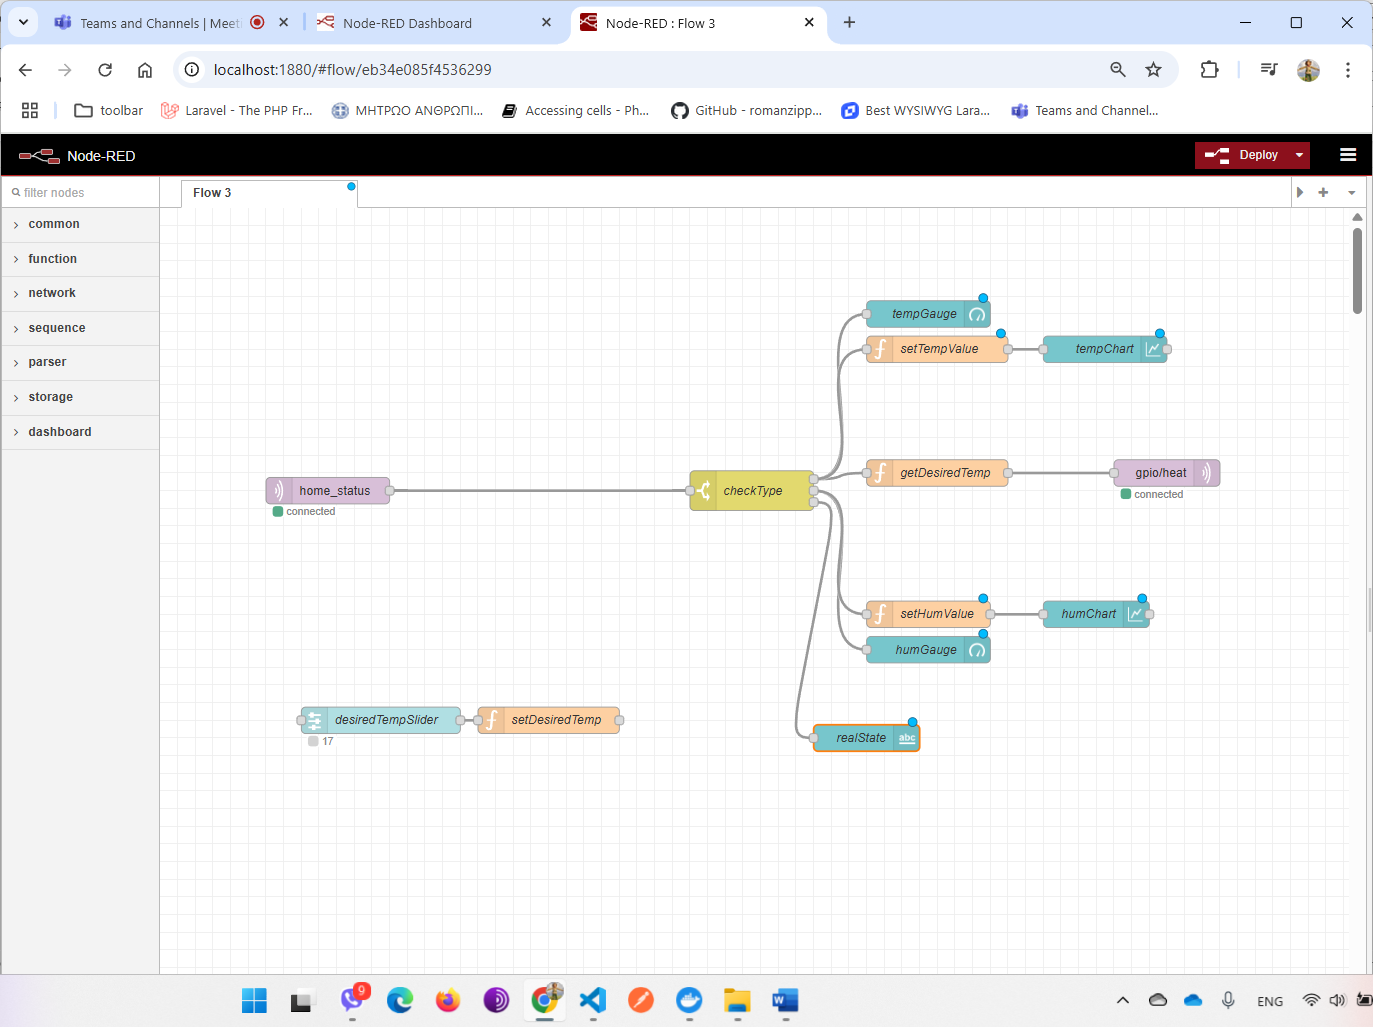
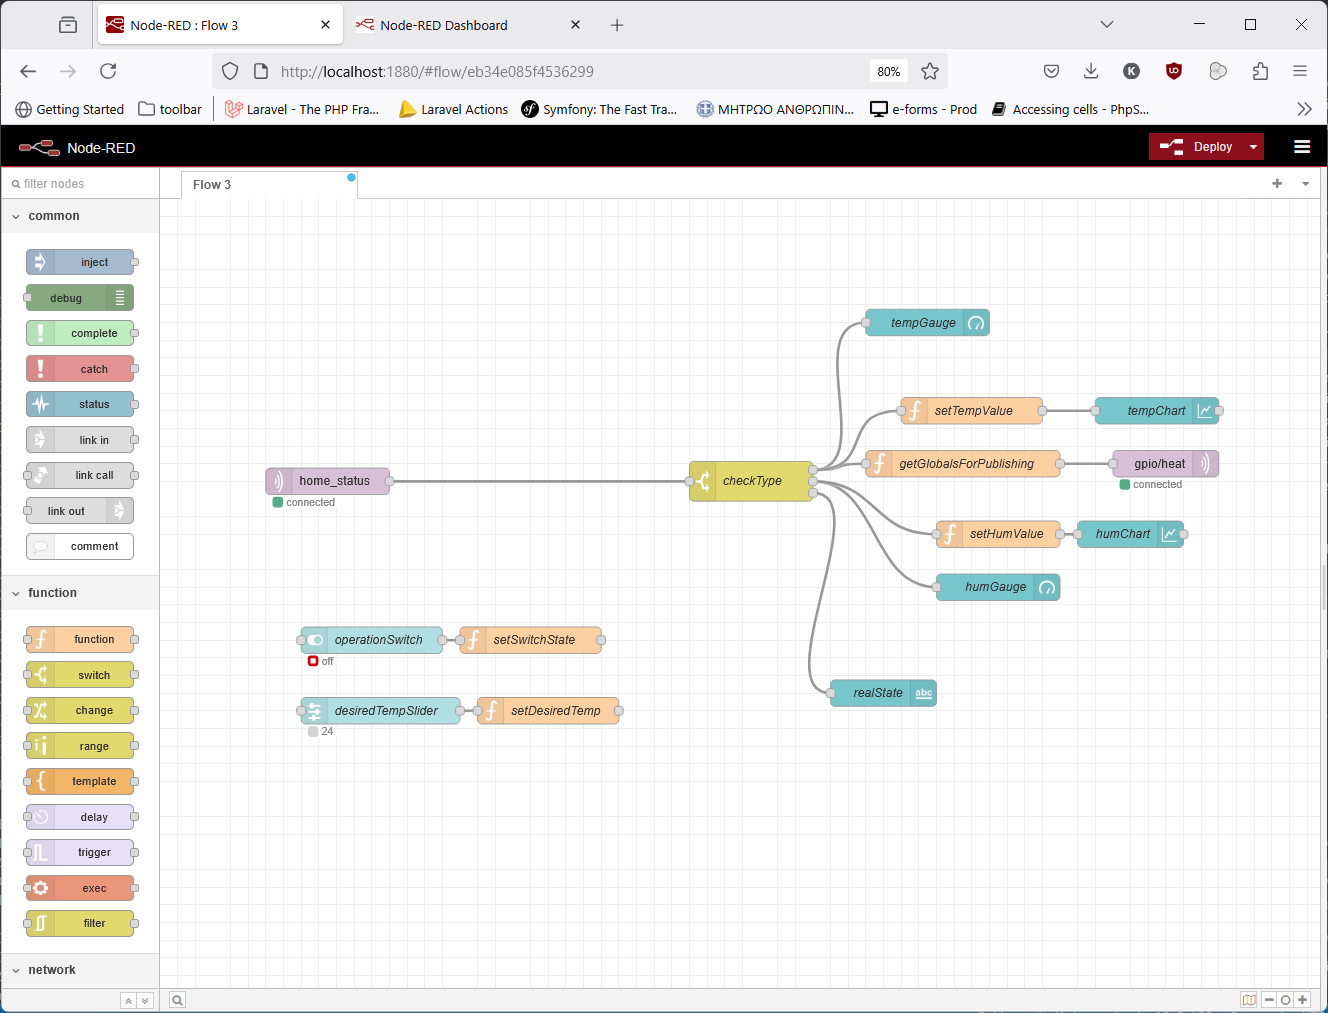
updates screenshots, adds OFF screenshot, updates README

diff --git a/README.md b/README.md
@@ -152,6 +152,11 @@ pip install paho-mqtt python-dotenv
 * Αποστέλλει εντολή HEAT\_ON στη συσκευή
 ![Temperature Tab Heating](images/temp_tab_heat.png)
 
+**Ή**
+
+* Θέτει τη λειτουργία της συσκευής σε OFF
+![System OFF](images/temp_tab_off.png)
+
 * Δείχνει τις πληροφορίες του "αισθητήρα" υγρασίας
 ![Humidity Tab](images/humidity_tab.png)
 
